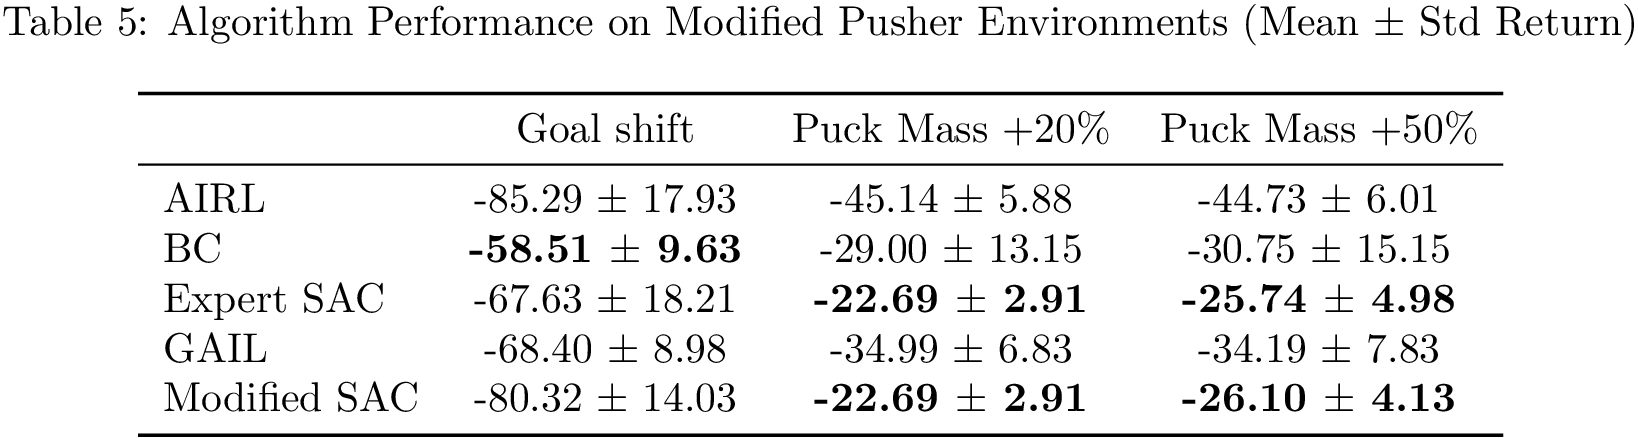
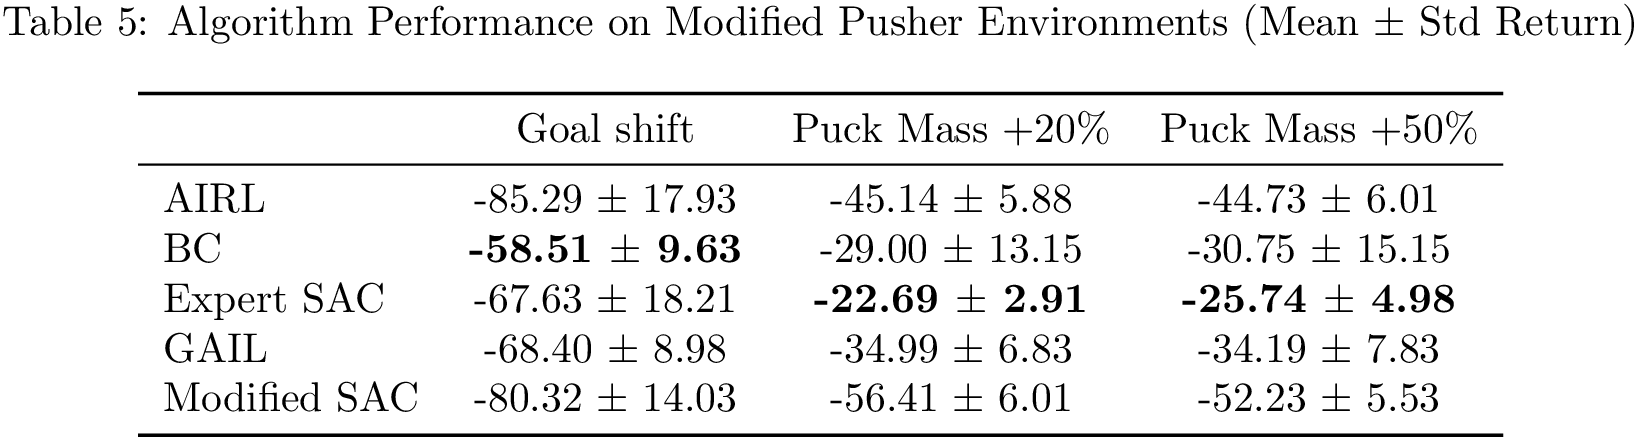
Final tables

Changed region(s): [[0.7161, 0.8607, 0.9029, 0.9498], [0.4982, 0.8607, 0.685, 0.9498]]

diff --git a/scripts/generate_tables.py b/scripts/generate_tables.py
@@ -439,8 +439,11 @@ def wrap_with_adjustbox(latex_table_string):
 
 
 # --- Helper function to create a minimal compilable LaTeX document string ---
-def create_standalone_latex_doc(table_content_string, threshold_percent):
-    """Creates a full LaTeX document string containing just the provided table content."""
+def create_standalone_latex_doc(table_content_string, threshold_percent, table_number):
+    """
+    Creates a full LaTeX document string containing just the provided table content.
+    Sets the table counter to ensure correct numbering when compiled individually.
+    """
     preamble = [
         "\\documentclass{article}",
         "\\usepackage{booktabs}",
@@ -451,6 +454,7 @@ def create_standalone_latex_doc(table_content_string, threshold_percent):
         "\\usepackage{geometry}",
         "\\geometry{a4paper, margin=1in, landscape}",  # Use landscape for individual files too
         f"% Bolding threshold for scores near max: {threshold_percent}%",
+        f"\\setcounter{{table}}{{{table_number - 1}}} % Set table counter",  # SET COUNTER
         "",
         "\\begin{document}",
         "\\pagestyle{empty}",  # Prevent page numbers on single-table files
@@ -605,11 +609,13 @@ if DEBUG_MODE:
 # --- Collect table LaTeX strings for the combined file ---
 # This list will hold ONLY the table environments (wrapped in adjustbox)
 combined_file_table_parts = []
+table_counter = 0  # Initialize counter for individual file numbering
 
 # 1. Standard Environments Table
 if not standard_table_data:
     print("No data found for the standard environments table.")
 else:
+    table_counter += 1  # Increment for this table
     print("--- Generating Standard Environments Table String ---")
     standard_df = pd.DataFrame.from_dict(standard_table_data, orient="index")
     standard_df = standard_df.sort_index(axis=0)  # Sort rows (formatted algos)
@@ -642,12 +648,14 @@ else:
 
         # --- Create and Save Individual Standard File ---
         standalone_std_doc = create_standalone_latex_doc(
-            wrapped_std_latex, bold_threshold_percent
+            wrapped_std_latex, bold_threshold_percent, table_counter
         )
         std_filename = individual_output_dir / "summary_standard_results.tex"
         with open(std_filename, "w", encoding="utf-8") as f:
             f.write(standalone_std_doc)
-        print(f"Individual standard table document saved to {std_filename}")
+        print(
+            f"Individual standard table document (Table {table_counter}) saved to {std_filename}"
+        )
 
         # --- Add table content to combined list ---
         combined_file_table_parts.append("% --- Standard Environment Results ---")
@@ -673,6 +681,8 @@ else:
         if not mod_data:
             print(f"  No data for {base_env_name_for_grouping} modified environments.")
             continue
+
+        table_counter += 1  # Increment for this table
 
         # Create DataFrame with formatted algo names as index & formatted modifications as columns
         mod_df = pd.DataFrame.from_dict(mod_data, orient="index")
@@ -714,7 +724,7 @@ else:
 
             # --- Create and Save Individual Modified File ---
             standalone_mod_doc = create_standalone_latex_doc(
-                wrapped_mod_latex, bold_threshold_percent
+                wrapped_mod_latex, bold_threshold_percent, table_counter
             )
             mod_filename = (
                 individual_output_dir
@@ -722,7 +732,9 @@ else:
             )
             with open(mod_filename, "w", encoding="utf-8") as f:
                 f.write(standalone_mod_doc)
-            print(f"Individual modified table document saved to {mod_filename}")
+            print(
+                f"Individual modified table document (Table {table_counter}) saved to {mod_filename}"
+            )
 
             # --- Add table content to combined list ---
             combined_file_table_parts.append(
@@ -771,7 +783,7 @@ if combined_file_table_parts:  # Check if any tables were actually generated
         print(f"  pdflatex {combined_latex_file}")
         print(f"  pdflatex {combined_latex_file} % Run twice for correct references")
         print(
-            "\nIndividual table .tex files (also compilable) saved in:",
+            "\nIndividual table .tex files (also compilable, with correct numbering) saved in:",
             individual_output_dir,
         )
     except Exception as e:

diff --git a/assets/tables/summary_modified_pusher_results.tex b/assets/tables/summary_modified_pusher_results.tex
@@ -7,6 +7,7 @@
 \usepackage{geometry}
 \geometry{a4paper, margin=1in, landscape}
 % Bolding threshold for scores near max: 5%
+\setcounter{table}{4} % Set table counter
 
 \begin{document}
 \pagestyle{empty}
@@ -23,7 +24,7 @@ AIRL & -85.29 $\pm$ 17.93 & -45.14 $\pm$ 5.88 & -44.73 $\pm$ 6.01 \\
 BC & \textbf{-58.51 $\pm$ 9.63} & -29.00 $\pm$ 13.15 & -30.75 $\pm$ 15.15 \\
 Expert SAC & -67.63 $\pm$ 18.21 & \textbf{-22.69 $\pm$ 2.91} & \textbf{-25.74 $\pm$ 4.98} \\
 GAIL & -68.40 $\pm$ 8.98 & -34.99 $\pm$ 6.83 & -34.19 $\pm$ 7.83 \\
-Modified SAC & -80.32 $\pm$ 14.03 & \textbf{-22.69 $\pm$ 2.91} & \textbf{-26.10 $\pm$ 4.13} \\
+Modified SAC & -80.32 $\pm$ 14.03 & -56.41 $\pm$ 6.01 & -52.23 $\pm$ 5.53 \\
 \bottomrule
 \end{tabular}
 \end{adjustbox}

diff --git a/assets/tables/all_results_single_page.tex b/assets/tables/all_results_single_page.tex
@@ -120,7 +120,7 @@ AIRL & -85.29 $\pm$ 17.93 & -45.14 $\pm$ 5.88 & -44.73 $\pm$ 6.01 \\
 BC & \textbf{-58.51 $\pm$ 9.63} & -29.00 $\pm$ 13.15 & -30.75 $\pm$ 15.15 \\
 Expert SAC & -67.63 $\pm$ 18.21 & \textbf{-22.69 $\pm$ 2.91} & \textbf{-25.74 $\pm$ 4.98} \\
 GAIL & -68.40 $\pm$ 8.98 & -34.99 $\pm$ 6.83 & -34.19 $\pm$ 7.83 \\
-Modified SAC & -80.32 $\pm$ 14.03 & \textbf{-22.69 $\pm$ 2.91} & \textbf{-26.10 $\pm$ 4.13} \\
+Modified SAC & -80.32 $\pm$ 14.03 & -56.41 $\pm$ 6.01 & -52.23 $\pm$ 5.53 \\
 \bottomrule
 \end{tabular}
 \end{adjustbox}

diff --git a/assets/tables/summary_modified_ant_results.tex b/assets/tables/summary_modified_ant_results.tex
@@ -7,6 +7,7 @@
 \usepackage{geometry}
 \geometry{a4paper, margin=1in, landscape}
 % Bolding threshold for scores near max: 5%
+\setcounter{table}{1} % Set table counter
 
 \begin{document}
 \pagestyle{empty}

diff --git a/assets/tables/summary_modified_hopper_results.tex b/assets/tables/summary_modified_hopper_results.tex
@@ -7,6 +7,7 @@
 \usepackage{geometry}
 \geometry{a4paper, margin=1in, landscape}
 % Bolding threshold for scores near max: 5%
+\setcounter{table}{2} % Set table counter
 
 \begin{document}
 \pagestyle{empty}

diff --git a/assets/tables/summary_modified_invpend_results.tex b/assets/tables/summary_modified_invpend_results.tex
@@ -7,6 +7,7 @@
 \usepackage{geometry}
 \geometry{a4paper, margin=1in, landscape}
 % Bolding threshold for scores near max: 5%
+\setcounter{table}{3} % Set table counter
 
 \begin{document}
 \pagestyle{empty}

diff --git a/assets/tables/summary_standard_results.tex b/assets/tables/summary_standard_results.tex
@@ -7,6 +7,7 @@
 \usepackage{geometry}
 \geometry{a4paper, margin=1in, landscape}
 % Bolding threshold for scores near max: 5%
+\setcounter{table}{0} % Set table counter
 
 \begin{document}
 \pagestyle{empty}
